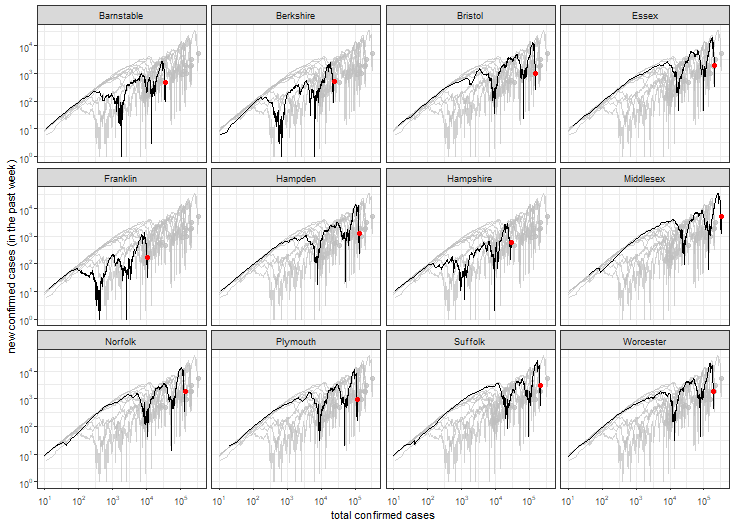
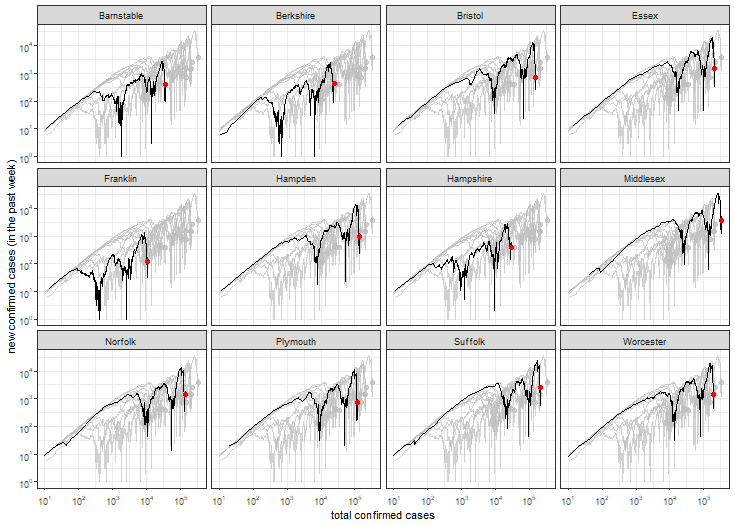
updated repo

diff --git a/README.md b/README.md
@@ -1,4 +1,4 @@
-Trends in COVID-19 for counties in the U.S. state of Massachusetts (updated on 2022-04-26)
+Trends in COVID-19 for counties in the U.S. state of Massachusetts (updated on 2022-04-27)
 ==========================================================================================
 
 ![trends in covid-19 cases by county in the U.S. state of
@@ -27,73 +27,73 @@ County-level Information
 <td style="text-align: center;">MA</td>
 <td style="text-align: center;">Barnstable</td>
 <td style="text-align: center;"><a href="https://www.cdc.gov/coronavirus/2019-ncov/science/community-levels.html"><img src="https://img.shields.io/badge/COVID--19%20Community%20Level-Low-success.svg" alt="barnstable cdc community badge" /></a><br />(updated on 2022-04-21)</td>
-<td style="text-align: center;"><a href="https://covid.cdc.gov/covid-data-tracker/#county-view?list_select_state=Massachusetts&amp;data-type=Risk&amp;list_select_county=25001"><img src="https://img.shields.io/badge/CDC%20Transmission%20Level-High-critical.svg" alt="barnstable county cdc transmission badge" /></a><br />(updated on 2022-04-25)</td>
+<td style="text-align: center;"><a href="https://covid.cdc.gov/covid-data-tracker/#county-view?list_select_state=Massachusetts&amp;data-type=Risk&amp;list_select_county=25001"><img src="https://img.shields.io/badge/CDC%20Transmission%20Level-High-critical.svg" alt="barnstable county cdc transmission badge" /></a><br />(updated on 2022-04-26)</td>
 </tr>
 <tr class="even">
 <td style="text-align: center;">MA</td>
 <td style="text-align: center;">Berkshire</td>
 <td style="text-align: center;"><a href="https://www.cdc.gov/coronavirus/2019-ncov/science/community-levels.html"><img src="https://img.shields.io/badge/COVID--19%20Community%20Level-Medium-important.svg" alt="berkshire cdc community badge" /></a><br />(updated on 2022-04-21)</td>
-<td style="text-align: center;"><a href="https://covid.cdc.gov/covid-data-tracker/#county-view?list_select_state=Massachusetts&amp;data-type=Risk&amp;list_select_county=25003"><img src="https://img.shields.io/badge/CDC%20Transmission%20Level-High-critical.svg" alt="berkshire county cdc transmission badge" /></a><br />(updated on 2022-04-25)</td>
+<td style="text-align: center;"><a href="https://covid.cdc.gov/covid-data-tracker/#county-view?list_select_state=Massachusetts&amp;data-type=Risk&amp;list_select_county=25003"><img src="https://img.shields.io/badge/CDC%20Transmission%20Level-High-critical.svg" alt="berkshire county cdc transmission badge" /></a><br />(updated on 2022-04-26)</td>
 </tr>
 <tr class="odd">
 <td style="text-align: center;">MA</td>
 <td style="text-align: center;">Bristol</td>
 <td style="text-align: center;"><a href="https://www.cdc.gov/coronavirus/2019-ncov/science/community-levels.html"><img src="https://img.shields.io/badge/COVID--19%20Community%20Level-Low-success.svg" alt="bristol cdc community badge" /></a><br />(updated on 2022-04-21)</td>
-<td style="text-align: center;"><a href="https://covid.cdc.gov/covid-data-tracker/#county-view?list_select_state=Massachusetts&amp;data-type=Risk&amp;list_select_county=25005"><img src="https://img.shields.io/badge/CDC%20Transmission%20Level-High-critical.svg" alt="bristol county cdc transmission badge" /></a><br />(updated on 2022-04-25)</td>
+<td style="text-align: center;"><a href="https://covid.cdc.gov/covid-data-tracker/#county-view?list_select_state=Massachusetts&amp;data-type=Risk&amp;list_select_county=25005"><img src="https://img.shields.io/badge/CDC%20Transmission%20Level-High-critical.svg" alt="bristol county cdc transmission badge" /></a><br />(updated on 2022-04-26)</td>
 </tr>
 <tr class="even">
 <td style="text-align: center;">MA</td>
 <td style="text-align: center;">Essex</td>
 <td style="text-align: center;"><a href="https://www.cdc.gov/coronavirus/2019-ncov/science/community-levels.html"><img src="https://img.shields.io/badge/COVID--19%20Community%20Level-Low-success.svg" alt="essex cdc community badge" /></a><br />(updated on 2022-04-21)</td>
-<td style="text-align: center;"><a href="https://covid.cdc.gov/covid-data-tracker/#county-view?list_select_state=Massachusetts&amp;data-type=Risk&amp;list_select_county=25009"><img src="https://img.shields.io/badge/CDC%20Transmission%20Level-High-critical.svg" alt="essex county cdc transmission badge" /></a><br />(updated on 2022-04-25)</td>
+<td style="text-align: center;"><a href="https://covid.cdc.gov/covid-data-tracker/#county-view?list_select_state=Massachusetts&amp;data-type=Risk&amp;list_select_county=25009"><img src="https://img.shields.io/badge/CDC%20Transmission%20Level-High-critical.svg" alt="essex county cdc transmission badge" /></a><br />(updated on 2022-04-26)</td>
 </tr>
 <tr class="odd">
 <td style="text-align: center;">MA</td>
 <td style="text-align: center;">Franklin</td>
 <td style="text-align: center;"><a href="https://www.cdc.gov/coronavirus/2019-ncov/science/community-levels.html"><img src="https://img.shields.io/badge/COVID--19%20Community%20Level-Low-success.svg" alt="franklin cdc community badge" /></a><br />(updated on 2022-04-21)</td>
-<td style="text-align: center;"><a href="https://covid.cdc.gov/covid-data-tracker/#county-view?list_select_state=Massachusetts&amp;data-type=Risk&amp;list_select_county=25011"><img src="https://img.shields.io/badge/CDC%20Transmission%20Level-High-critical.svg" alt="franklin county cdc transmission badge" /></a><br />(updated on 2022-04-25)</td>
+<td style="text-align: center;"><a href="https://covid.cdc.gov/covid-data-tracker/#county-view?list_select_state=Massachusetts&amp;data-type=Risk&amp;list_select_county=25011"><img src="https://img.shields.io/badge/CDC%20Transmission%20Level-High-critical.svg" alt="franklin county cdc transmission badge" /></a><br />(updated on 2022-04-26)</td>
 </tr>
 <tr class="even">
 <td style="text-align: center;">MA</td>
 <td style="text-align: center;">Hampden</td>
 <td style="text-align: center;"><a href="https://www.cdc.gov/coronavirus/2019-ncov/science/community-levels.html"><img src="https://img.shields.io/badge/COVID--19%20Community%20Level-Low-success.svg" alt="hampden cdc community badge" /></a><br />(updated on 2022-04-21)</td>
-<td style="text-align: center;"><a href="https://covid.cdc.gov/covid-data-tracker/#county-view?list_select_state=Massachusetts&amp;data-type=Risk&amp;list_select_county=25013"><img src="https://img.shields.io/badge/CDC%20Transmission%20Level-High-critical.svg" alt="hampden county cdc transmission badge" /></a><br />(updated on 2022-04-25)</td>
+<td style="text-align: center;"><a href="https://covid.cdc.gov/covid-data-tracker/#county-view?list_select_state=Massachusetts&amp;data-type=Risk&amp;list_select_county=25013"><img src="https://img.shields.io/badge/CDC%20Transmission%20Level-High-critical.svg" alt="hampden county cdc transmission badge" /></a><br />(updated on 2022-04-26)</td>
 </tr>
 <tr class="odd">
 <td style="text-align: center;">MA</td>
 <td style="text-align: center;">Hampshire</td>
 <td style="text-align: center;"><a href="https://www.cdc.gov/coronavirus/2019-ncov/science/community-levels.html"><img src="https://img.shields.io/badge/COVID--19%20Community%20Level-Medium-important.svg" alt="hampshire cdc community badge" /></a><br />(updated on 2022-04-21)</td>
-<td style="text-align: center;"><a href="https://covid.cdc.gov/covid-data-tracker/#county-view?list_select_state=Massachusetts&amp;data-type=Risk&amp;list_select_county=25015"><img src="https://img.shields.io/badge/CDC%20Transmission%20Level-High-critical.svg" alt="hampshire county cdc transmission badge" /></a><br />(updated on 2022-04-25)</td>
+<td style="text-align: center;"><a href="https://covid.cdc.gov/covid-data-tracker/#county-view?list_select_state=Massachusetts&amp;data-type=Risk&amp;list_select_county=25015"><img src="https://img.shields.io/badge/CDC%20Transmission%20Level-High-critical.svg" alt="hampshire county cdc transmission badge" /></a><br />(updated on 2022-04-26)</td>
 </tr>
 <tr class="even">
 <td style="text-align: center;">MA</td>
 <td style="text-align: center;">Middlesex</td>
 <td style="text-align: center;"><a href="https://www.cdc.gov/coronavirus/2019-ncov/science/community-levels.html"><img src="https://img.shields.io/badge/COVID--19%20Community%20Level-Medium-important.svg" alt="middlesex cdc community badge" /></a><br />(updated on 2022-04-21)</td>
-<td style="text-align: center;"><a href="https://covid.cdc.gov/covid-data-tracker/#county-view?list_select_state=Massachusetts&amp;data-type=Risk&amp;list_select_county=25017"><img src="https://img.shields.io/badge/CDC%20Transmission%20Level-High-critical.svg" alt="middlesex county cdc transmission badge" /></a><br />(updated on 2022-04-25)</td>
+<td style="text-align: center;"><a href="https://covid.cdc.gov/covid-data-tracker/#county-view?list_select_state=Massachusetts&amp;data-type=Risk&amp;list_select_county=25017"><img src="https://img.shields.io/badge/CDC%20Transmission%20Level-High-critical.svg" alt="middlesex county cdc transmission badge" /></a><br />(updated on 2022-04-26)</td>
 </tr>
 <tr class="odd">
 <td style="text-align: center;">MA</td>
 <td style="text-align: center;">Norfolk</td>
 <td style="text-align: center;"><a href="https://www.cdc.gov/coronavirus/2019-ncov/science/community-levels.html"><img src="https://img.shields.io/badge/COVID--19%20Community%20Level-Low-success.svg" alt="norfolk cdc community badge" /></a><br />(updated on 2022-04-21)</td>
-<td style="text-align: center;"><a href="https://covid.cdc.gov/covid-data-tracker/#county-view?list_select_state=Massachusetts&amp;data-type=Risk&amp;list_select_county=25021"><img src="https://img.shields.io/badge/CDC%20Transmission%20Level-High-critical.svg" alt="norfolk county cdc transmission badge" /></a><br />(updated on 2022-04-25)</td>
+<td style="text-align: center;"><a href="https://covid.cdc.gov/covid-data-tracker/#county-view?list_select_state=Massachusetts&amp;data-type=Risk&amp;list_select_county=25021"><img src="https://img.shields.io/badge/CDC%20Transmission%20Level-High-critical.svg" alt="norfolk county cdc transmission badge" /></a><br />(updated on 2022-04-26)</td>
 </tr>
 <tr class="even">
 <td style="text-align: center;">MA</td>
 <td style="text-align: center;">Plymouth</td>
 <td style="text-align: center;"><a href="https://www.cdc.gov/coronavirus/2019-ncov/science/community-levels.html"><img src="https://img.shields.io/badge/COVID--19%20Community%20Level-Low-success.svg" alt="plymouth cdc community badge" /></a><br />(updated on 2022-04-21)</td>
-<td style="text-align: center;"><a href="https://covid.cdc.gov/covid-data-tracker/#county-view?list_select_state=Massachusetts&amp;data-type=Risk&amp;list_select_county=25023"><img src="https://img.shields.io/badge/CDC%20Transmission%20Level-High-critical.svg" alt="plymouth county cdc transmission badge" /></a><br />(updated on 2022-04-25)</td>
+<td style="text-align: center;"><a href="https://covid.cdc.gov/covid-data-tracker/#county-view?list_select_state=Massachusetts&amp;data-type=Risk&amp;list_select_county=25023"><img src="https://img.shields.io/badge/CDC%20Transmission%20Level-High-critical.svg" alt="plymouth county cdc transmission badge" /></a><br />(updated on 2022-04-26)</td>
 </tr>
 <tr class="odd">
 <td style="text-align: center;">MA</td>
 <td style="text-align: center;">Suffolk</td>
 <td style="text-align: center;"><a href="https://www.cdc.gov/coronavirus/2019-ncov/science/community-levels.html"><img src="https://img.shields.io/badge/COVID--19%20Community%20Level-Medium-important.svg" alt="suffolk cdc community badge" /></a><br />(updated on 2022-04-21)</td>
-<td style="text-align: center;"><a href="https://covid.cdc.gov/covid-data-tracker/#county-view?list_select_state=Massachusetts&amp;data-type=Risk&amp;list_select_county=25025"><img src="https://img.shields.io/badge/CDC%20Transmission%20Level-High-critical.svg" alt="suffolk county cdc transmission badge" /></a><br />(updated on 2022-04-25)</td>
+<td style="text-align: center;"><a href="https://covid.cdc.gov/covid-data-tracker/#county-view?list_select_state=Massachusetts&amp;data-type=Risk&amp;list_select_county=25025"><img src="https://img.shields.io/badge/CDC%20Transmission%20Level-High-critical.svg" alt="suffolk county cdc transmission badge" /></a><br />(updated on 2022-04-26)</td>
 </tr>
 <tr class="even">
 <td style="text-align: center;">MA</td>
 <td style="text-align: center;">Worcester</td>
 <td style="text-align: center;"><a href="https://www.cdc.gov/coronavirus/2019-ncov/science/community-levels.html"><img src="https://img.shields.io/badge/COVID--19%20Community%20Level-Low-success.svg" alt="worcester cdc community badge" /></a><br />(updated on 2022-04-21)</td>
-<td style="text-align: center;"><a href="https://covid.cdc.gov/covid-data-tracker/#county-view?list_select_state=Massachusetts&amp;data-type=Risk&amp;list_select_county=25027"><img src="https://img.shields.io/badge/CDC%20Transmission%20Level-High-critical.svg" alt="worcester county cdc transmission badge" /></a><br />(updated on 2022-04-25)</td>
+<td style="text-align: center;"><a href="https://covid.cdc.gov/covid-data-tracker/#county-view?list_select_state=Massachusetts&amp;data-type=Risk&amp;list_select_county=25027"><img src="https://img.shields.io/badge/CDC%20Transmission%20Level-High-critical.svg" alt="worcester county cdc transmission badge" /></a><br />(updated on 2022-04-26)</td>
 </tr>
 </tbody>
 </table>
